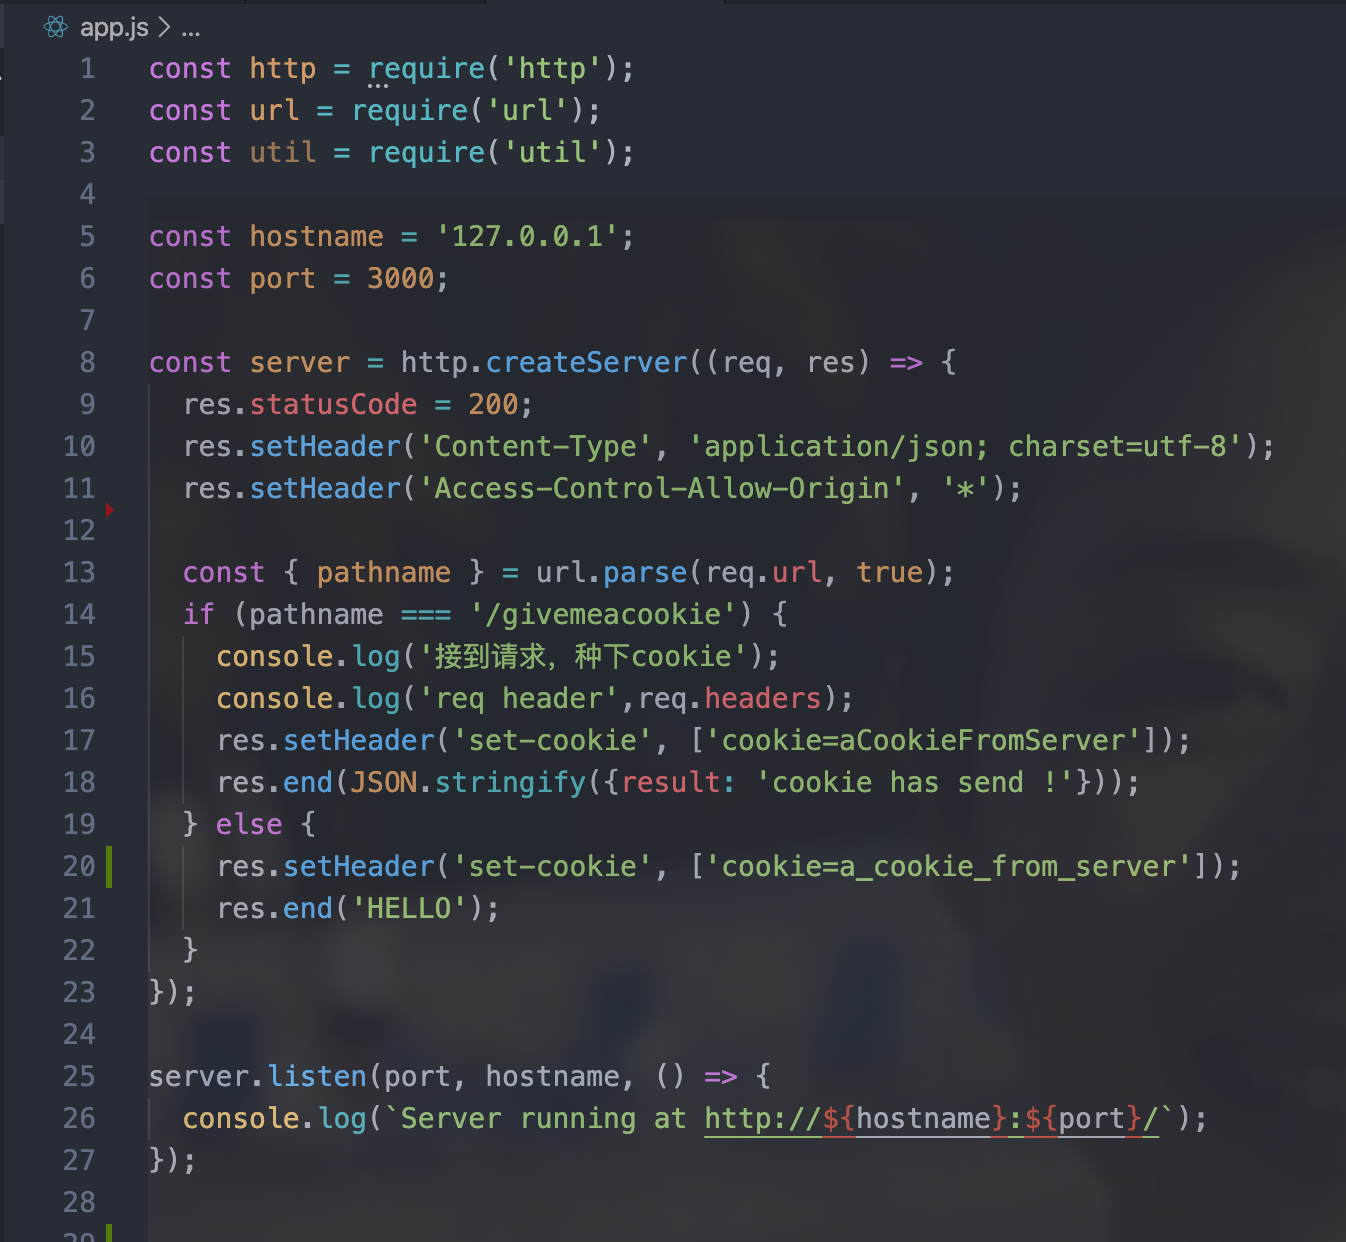
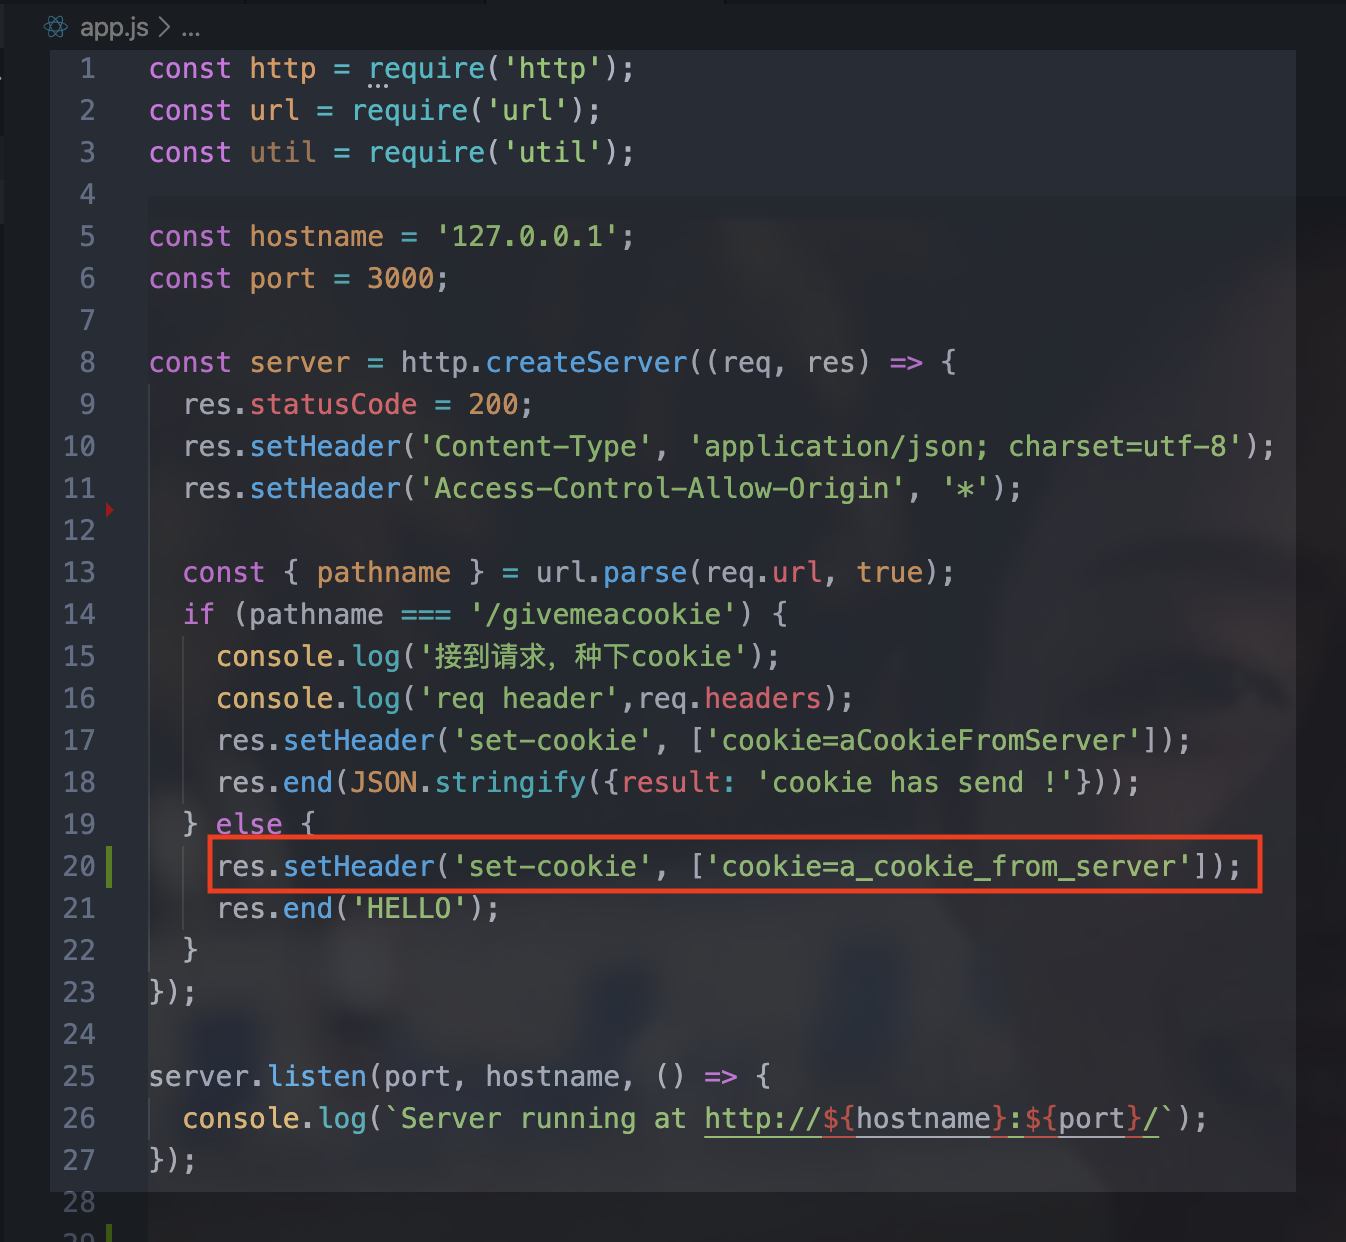
no message

diff --git a/[cookie实战-1]种下一个cookie.md b/[cookie实战-1]种下一个cookie.md
@@ -110,9 +110,13 @@ fetch('http://a.com:3000/givemeacookie').then(...)
 
 #### 服务端渲染
 
-之前的例子都是前后端分离的情况，所以不同源是肯定的了。但是由服务器直出的页面就不一样了
+之前的例子都是前后端分离的情况，所以不同源是肯定的了。如果是由服务器直出的页面就可以了
 
-这边只要简单的改一下 `app.js` 就行了
+这边只要简单的改一下 `app.js` 
+
+<img src="https://github.com/YuArtian/blog/blob/master/img/cookie%E5%AE%9E%E6%88%98/%E7%A7%8D%E4%B8%80%E4%B8%AAcookie/6.png?raw=true" />
+
+这次直接访问 `a.com:3000`
 
 
 
